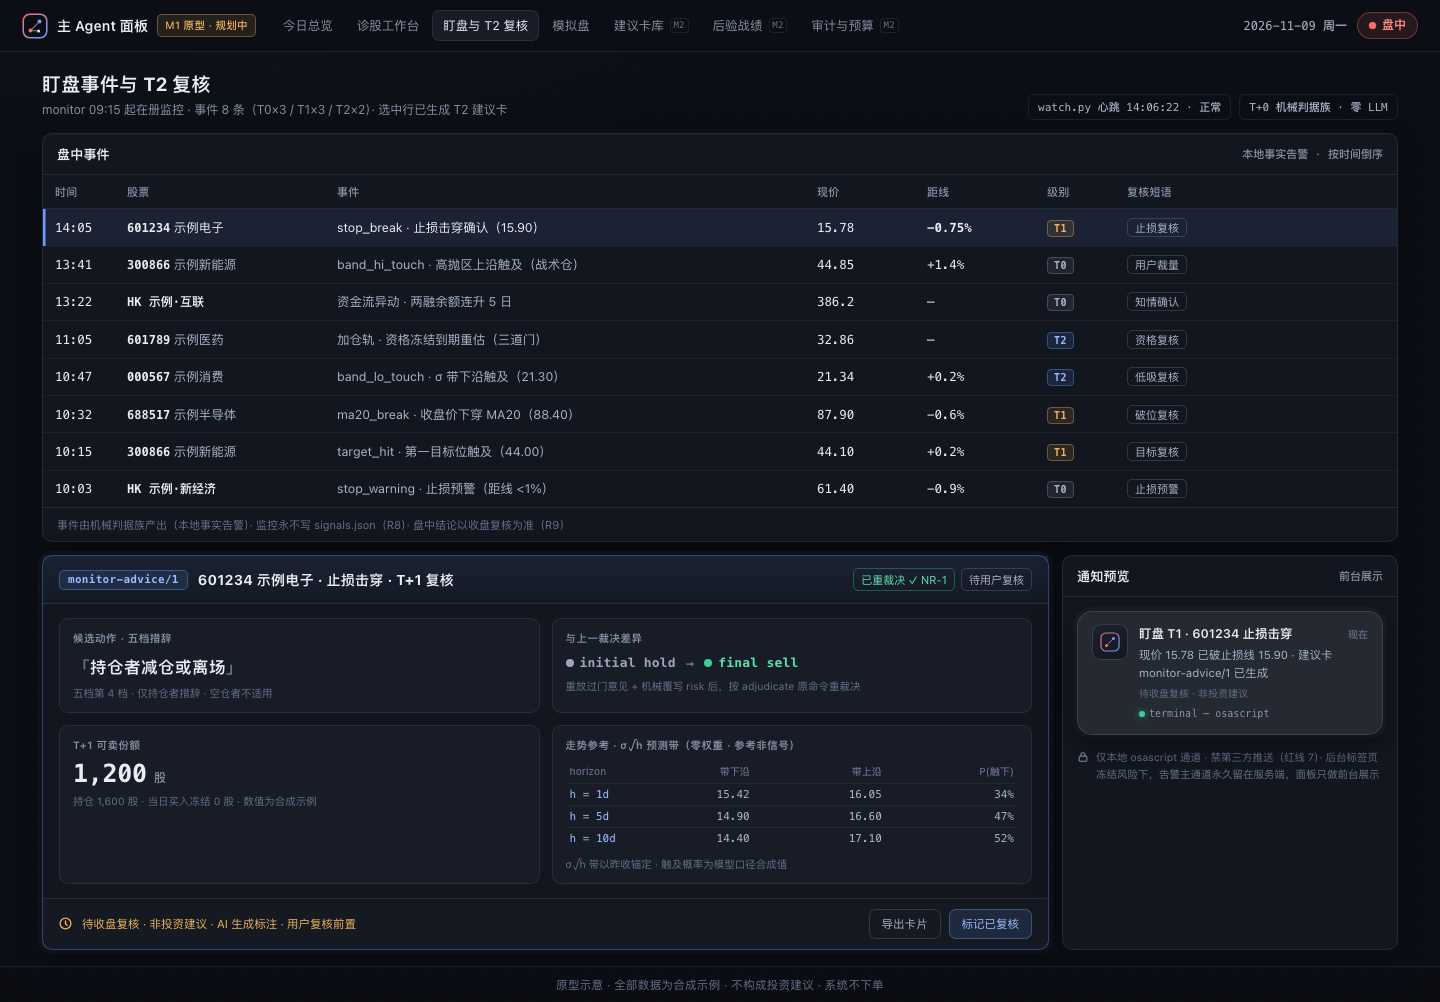
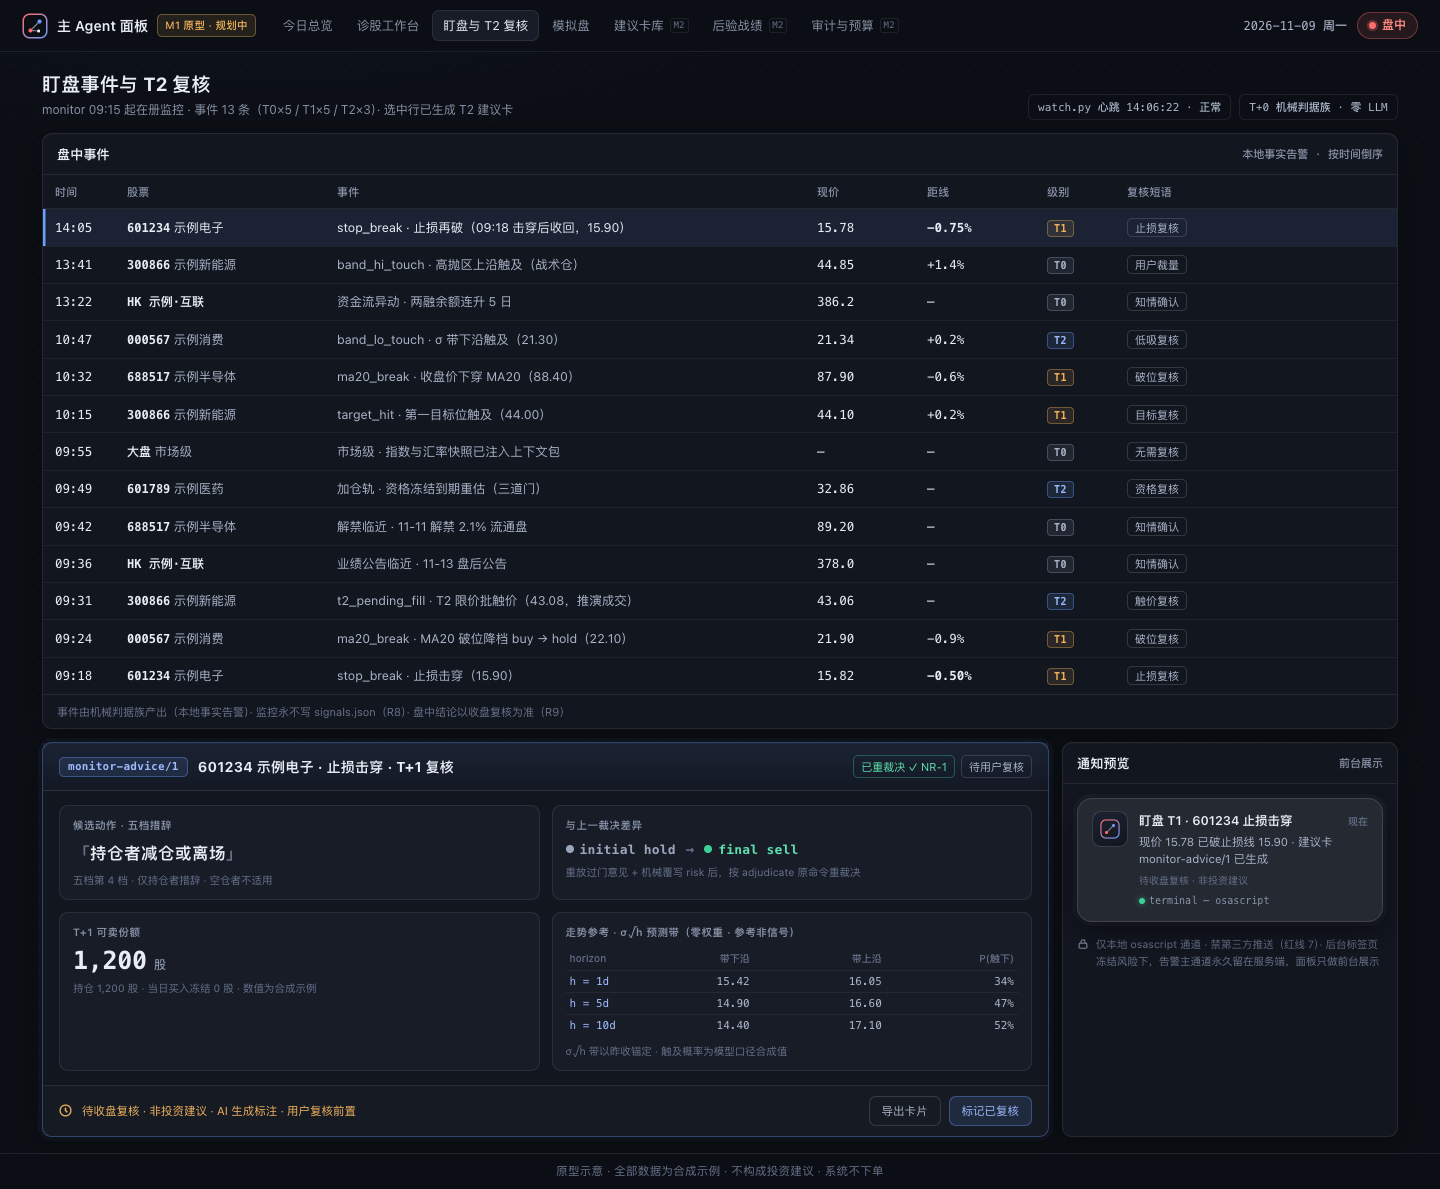
fix(Prototypes): 原型跨页数据自洽：可卖份额算式、300866 买点与触价时刻、盯盘事件流并入早盘事件 0.0.28;
monitor-advice：601234 持仓 1,600 股改 1,200 股，与可卖 1,200、模拟盘页持仓对齐；事件表并入总览 10:08 已列的 7 条早盘事件（共 13 条，T0×5 / T1×5 / T2×3），移除不在册的 HK 示例·新经济预警，14:05 的 601234 止损事件改为 09:18 击穿后收回的再破（whipsaw）；
overview：300866 买点 42.50 改 43.08，与模拟盘页 entry_ref 一致（06：T2 限价 = 参考买点）；
paper：300866 T2 触价时刻 10:15 改 09:31，与总览及事件表一致；
三页整页 PNG 按 1440px 视口同口径重截。

🤖 Generated with [Claude Code](https://github.com/claude), [CodeX](https://openai.com), [Gemini](https://github.com/apps/gemini-code-assist)

diff --git a/docs/prototypes/main-agent/monitor-advice.html b/docs/prototypes/main-agent/monitor-advice.html
@@ -153,7 +153,7 @@ tr.sel td:first-child{box-shadow:inset 2.5px 0 0 var(--acc)}
   <div class="hero">
     <div>
       <h1>盯盘事件与 T2 复核</h1>
-      <div class="sub">monitor 09:15 起在册监控 · 事件 8 条（T0×3 / T1×3 / T2×2）· 选中行已生成 T2 建议卡</div>
+      <div class="sub">monitor 09:15 起在册监控 · 事件 13 条（T0×5 / T1×5 / T2×3）· 选中行已生成 T2 建议卡</div>
     </div>
     <div class="hero-r">
       <span class="metachip">watch.py 心跳 14:06:22 · 正常</span>
@@ -172,7 +172,7 @@ tr.sel td:first-child{box-shadow:inset 2.5px 0 0 var(--acc)}
       <tbody>
         <tr class="sel">
           <td class="num">14:05</td><td><span class="code">601234</span> 示例电子</td>
-          <td>stop_break · 止损击穿确认（15.90）</td><td class="num">15.78</td><td class="num breach">−0.75%</td>
+          <td>stop_break · 止损再破（09:18 击穿后收回，15.90）</td><td class="num">15.78</td><td class="num breach">−0.75%</td>
           <td><span class="lv lv1">T1</span></td><td><span class="tag">止损复核</span></td>
         </tr>
         <tr>
@@ -184,11 +184,6 @@ tr.sel td:first-child{box-shadow:inset 2.5px 0 0 var(--acc)}
           <td class="num">13:22</td><td><span class="code">HK 示例·互联</span></td>
           <td>资金流异动 · 两融余额连升 5 日</td><td class="num">386.2</td><td class="num">—</td>
           <td><span class="lv lv0">T0</span></td><td><span class="tag">知情确认</span></td>
-        </tr>
-        <tr>
-          <td class="num">11:05</td><td><span class="code">601789</span> 示例医药</td>
-          <td>加仓轨 · 资格冻结到期重估（三道门）</td><td class="num">32.86</td><td class="num">—</td>
-          <td><span class="lv lv2">T2</span></td><td><span class="tag">资格复核</span></td>
         </tr>
         <tr>
           <td class="num">10:47</td><td><span class="code">000567</span> 示例消费</td>
@@ -206,9 +201,39 @@ tr.sel td:first-child{box-shadow:inset 2.5px 0 0 var(--acc)}
           <td><span class="lv lv1">T1</span></td><td><span class="tag">目标复核</span></td>
         </tr>
         <tr>
-          <td class="num">10:03</td><td><span class="code">HK 示例·新经济</span></td>
-          <td>stop_warning · 止损预警（距线 &lt;1%）</td><td class="num">61.40</td><td class="num near">−0.9%</td>
-          <td><span class="lv lv0">T0</span></td><td><span class="tag">止损预警</span></td>
+          <td class="num">09:55</td><td><span class="code">大盘</span> 市场级</td>
+          <td>市场级 · 指数与汇率快照已注入上下文包</td><td class="num">—</td><td class="num">—</td>
+          <td><span class="lv lv0">T0</span></td><td><span class="tag">无需复核</span></td>
+        </tr>
+        <tr>
+          <td class="num">09:49</td><td><span class="code">601789</span> 示例医药</td>
+          <td>加仓轨 · 资格冻结到期重估（三道门）</td><td class="num">32.86</td><td class="num">—</td>
+          <td><span class="lv lv2">T2</span></td><td><span class="tag">资格复核</span></td>
+        </tr>
+        <tr>
+          <td class="num">09:42</td><td><span class="code">688517</span> 示例半导体</td>
+          <td>解禁临近 · 11-11 解禁 2.1% 流通盘</td><td class="num">89.20</td><td class="num">—</td>
+          <td><span class="lv lv0">T0</span></td><td><span class="tag">知情确认</span></td>
+        </tr>
+        <tr>
+          <td class="num">09:36</td><td><span class="code">HK 示例·互联</span></td>
+          <td>业绩公告临近 · 11-13 盘后公告</td><td class="num">378.0</td><td class="num">—</td>
+          <td><span class="lv lv0">T0</span></td><td><span class="tag">知情确认</span></td>
+        </tr>
+        <tr>
+          <td class="num">09:31</td><td><span class="code">300866</span> 示例新能源</td>
+          <td>t2_pending_fill · T2 限价批触价（43.08，推演成交）</td><td class="num">43.06</td><td class="num">—</td>
+          <td><span class="lv lv2">T2</span></td><td><span class="tag">触价复核</span></td>
+        </tr>
+        <tr>
+          <td class="num">09:24</td><td><span class="code">000567</span> 示例消费</td>
+          <td>ma20_break · MA20 破位降档 buy → hold（22.10）</td><td class="num">21.90</td><td class="num near">−0.9%</td>
+          <td><span class="lv lv1">T1</span></td><td><span class="tag">破位复核</span></td>
+        </tr>
+        <tr>
+          <td class="num">09:18</td><td><span class="code">601234</span> 示例电子</td>
+          <td>stop_break · 止损击穿（15.90）</td><td class="num">15.82</td><td class="num breach">−0.50%</td>
+          <td><span class="lv lv1">T1</span></td><td><span class="tag">止损复核</span></td>
         </tr>
       </tbody>
     </table>
@@ -244,7 +269,7 @@ tr.sel td:first-child{box-shadow:inset 2.5px 0 0 var(--acc)}
         <div class="blk">
           <div class="bl">T+1 可卖份额</div>
           <div class="bignum num">1,200<span class="u"> 股</span></div>
-          <div class="bs">持仓 1,600 股 · 当日买入冻结 0 股 · 数值为合成示例</div>
+          <div class="bs">持仓 1,200 股 · 当日买入冻结 0 股 · 数值为合成示例</div>
         </div>
         <div class="blk">
           <div class="bl">走势参考 · σ√h 预测带（零权重 · 参考非信号）</div>

diff --git a/docs/prototypes/main-agent/paper.html b/docs/prototypes/main-agent/paper.html
@@ -221,7 +221,7 @@ tr.open td:first-child{box-shadow:inset 4px 0 0 #F0B35C,0 0 10px rgba(240,179,92
             <span class="fill-code">300866</span><span class="fill-name">示例新能源</span>
             <span class="fill-leg leg pending"><i>T2</i>限价批</span>
           </div>
-          <div class="fill-det">成交价 <b>43.08</b> = min(open 43.15, entry_ref 43.08)　·　<b>4 手 × 100 股</b>　·　触价 10:15</div>
+          <div class="fill-det">成交价 <b>43.08</b> = min(open 43.15, entry_ref 43.08)　·　<b>4 手 × 100 股</b>　·　触价 09:31</div>
           <div class="fill-act">
             <button class="btn btn-ok">确认成交</button>
             <button class="btn btn-no">驳回</button>

diff --git a/docs/prototypes/main-agent/overview.html b/docs/prototypes/main-agent/overview.html
@@ -340,7 +340,7 @@ main{width:100%;max-width:1400px;margin:0 auto;padding:18px 22px 16px;flex:1;dis
       <div class="dawn-t">盘前晨报 · 关键价位</div>
       <div class="kchips">
         <span class="kchip"><i>601234</i> 止损 <b>15.90</b></span>
-        <span class="kchip"><i>300866</i> 买点 <b>42.50</b></span>
+        <span class="kchip"><i>300866</i> 买点 <b>43.08</b></span>
         <span class="kchip"><i>688517</i> MA20 <b>88.40</b></span>
       </div>
     </div>
